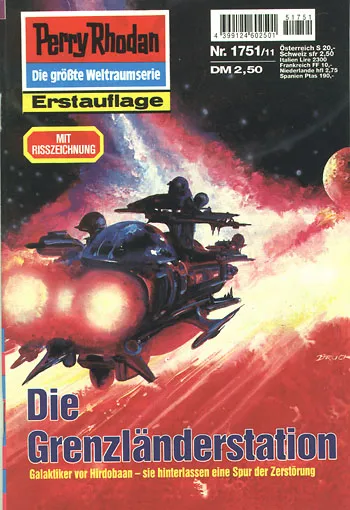
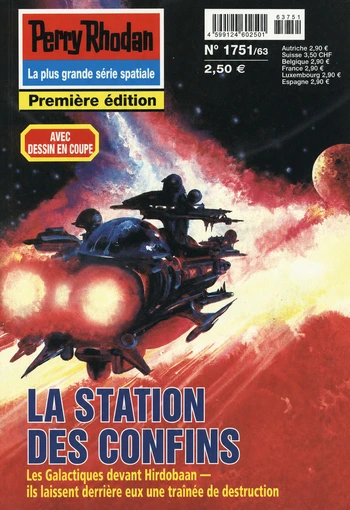
feat: add French covers 1743-1752

diff --git a/src/content/chapitres/de-1744.md b/src/content/chapitres/de-1744.md
@@ -4,7 +4,7 @@ cycleNumber: 25
 chapterNumber: 1744
 type: translation
 originalTitle: "Der Plan des Unsterblichen"
-cover: "/images/covers/de-1744.webp"
+cover: "/images/covers/de-1744.webp?v=20260830-1752"
 auteur: "Peter Griese"
 parution: "1995-01-26"
 statut: traduit

diff --git a/src/content/chapitres/de-1750.md b/src/content/chapitres/de-1750.md
@@ -4,7 +4,7 @@ cycleNumber: 26
 chapterNumber: 1750
 type: translation
 originalTitle: "Karawane der Verzweifelten"
-cover: "/images/covers/de-1750.webp"
+cover: "/images/covers/de-1750.webp?v=20260830-1752"
 auteur: "Robert Feldhoff"
 parution: "1995-03-09"
 statut: wip

diff --git a/src/content/chapitres/de-1751.md b/src/content/chapitres/de-1751.md
@@ -4,7 +4,7 @@ cycleNumber: 26
 chapterNumber: 1751
 type: translation
 originalTitle: "Die Grenzländerstation"
-cover: "/images/covers/de-1751.webp"
+cover: "/images/covers/de-1751.webp?v=20260830-1752"
 auteur: "Arndt Ellmer"
 parution: "1995-03-16"
 statut: traduit

diff --git a/src/content/chapitres/de-1746.md b/src/content/chapitres/de-1746.md
@@ -4,7 +4,7 @@ cycleNumber: 25
 chapterNumber: 1746
 type: translation
 originalTitle: "Das Herz der Abruse"
-cover: "/images/covers/de-1746.webp"
+cover: "/images/covers/de-1746.webp?v=20260830-1752"
 auteur: "H. G. Francis"
 parution: "1995-02-09"
 statut: wip

diff --git a/src/content/chapitres/de-1752.md b/src/content/chapitres/de-1752.md
@@ -4,7 +4,7 @@ cycleNumber: 26
 chapterNumber: 1752
 type: translation
 originalTitle: "Als Rebell geboren"
-cover: "/images/covers/de-1752.webp"
+cover: "/images/covers/de-1752.webp?v=20260830-1752"
 auteur: "Hubert Haensel"
 parution: "1995-03-23"
 statut: wip

diff --git a/src/content/chapitres/de-1749.md b/src/content/chapitres/de-1749.md
@@ -4,7 +4,7 @@ cycleNumber: 25
 chapterNumber: 1749
 type: translation
 originalTitle: "Inseln des Lebens"
-cover: "/images/covers/de-1749.webp"
+cover: "/images/covers/de-1749.webp?v=20260830-1752"
 auteur: "Horst Hoffmann"
 parution: "1995-03-02"
 statut: wip

diff --git a/src/content/chapitres/de-1743.md b/src/content/chapitres/de-1743.md
@@ -4,7 +4,7 @@ cycleNumber: 25
 chapterNumber: 1743
 type: translation
 originalTitle: "Digital-Gespenster"
-cover: "/images/covers/de-1743.webp"
+cover: "/images/covers/de-1743.webp?v=20260830-1752"
 auteur: "Peter Terrid"
 parution: "1995-01-19"
 statut: wip

diff --git a/src/content/chapitres/de-1748.md b/src/content/chapitres/de-1748.md
@@ -4,7 +4,7 @@ cycleNumber: 25
 chapterNumber: 1748
 type: translation
 originalTitle: "Im Teufelskreis"
-cover: "/images/covers/de-1748.webp"
+cover: "/images/covers/de-1748.webp?v=20260830-1752"
 auteur: "Horst Hoffmann"
 parution: "1995-02-23"
 statut: wip

diff --git a/src/content/chapitres/de-1745.md b/src/content/chapitres/de-1745.md
@@ -4,7 +4,7 @@ cycleNumber: 25
 chapterNumber: 1745
 type: translation
 originalTitle: "Sholunas Hammer"
-cover: "/images/covers/de-1745.webp"
+cover: "/images/covers/de-1745.webp?v=20260830-1752"
 auteur: "Ernst Vlcek"
 parution: "1995-02-02"
 statut: wip

diff --git a/src/content/chapitres/de-1747.md b/src/content/chapitres/de-1747.md
@@ -4,7 +4,7 @@ cycleNumber: 25
 chapterNumber: 1747
 type: translation
 originalTitle: "Hyzzak"
-cover: "/images/covers/de-1747.webp"
+cover: "/images/covers/de-1747.webp?v=20260830-1752"
 auteur: "Peter Terrid"
 parution: "1995-02-16"
 statut: wip
